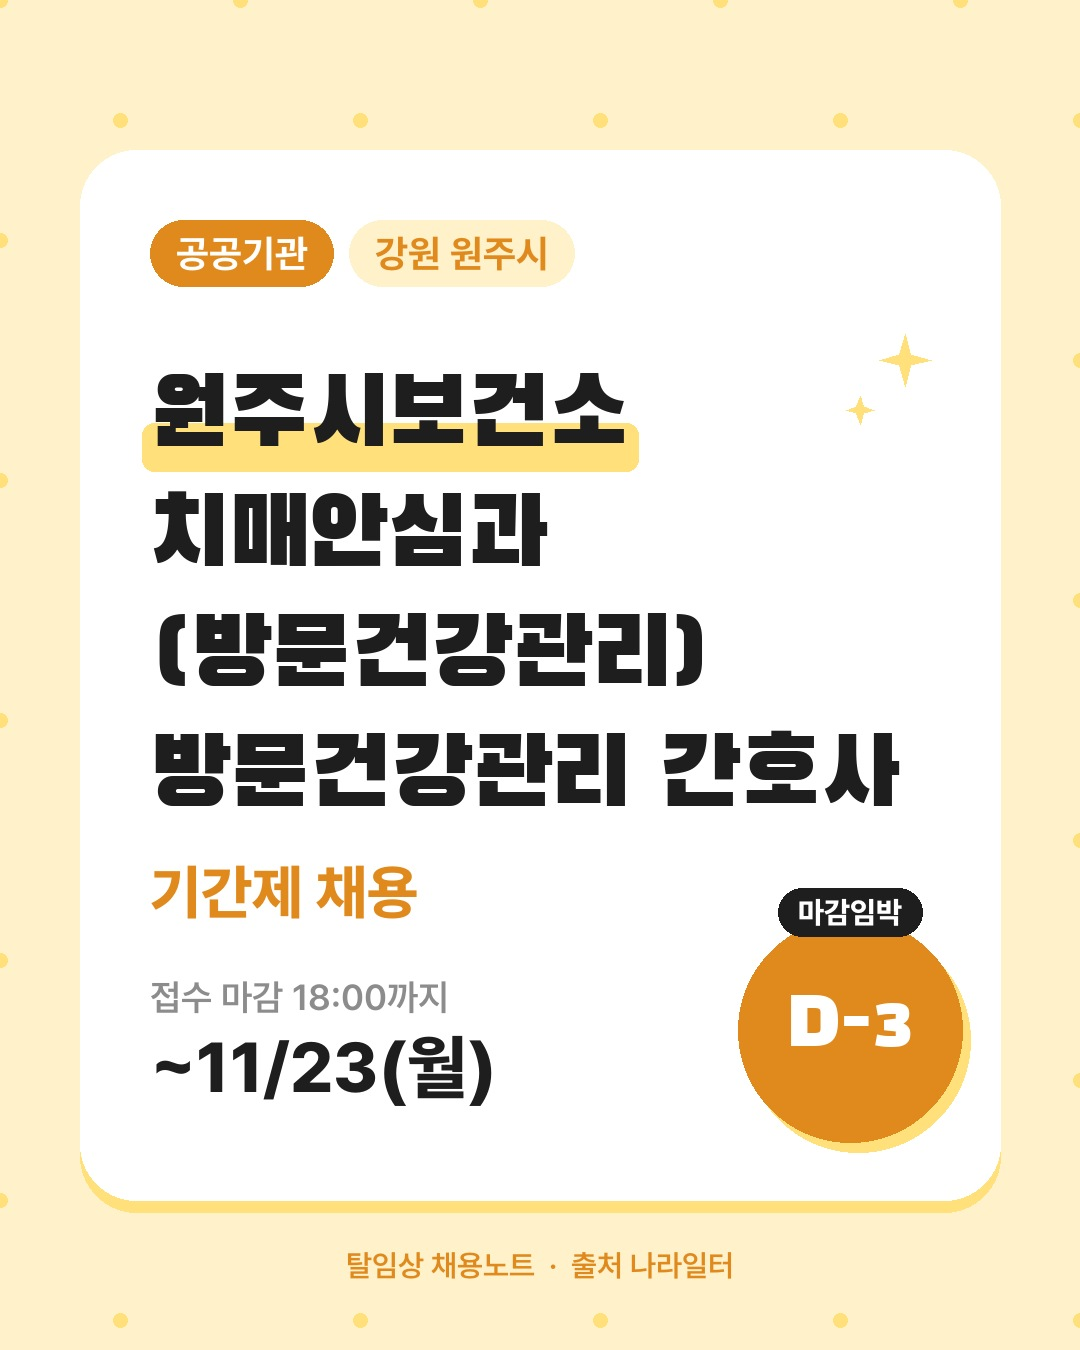
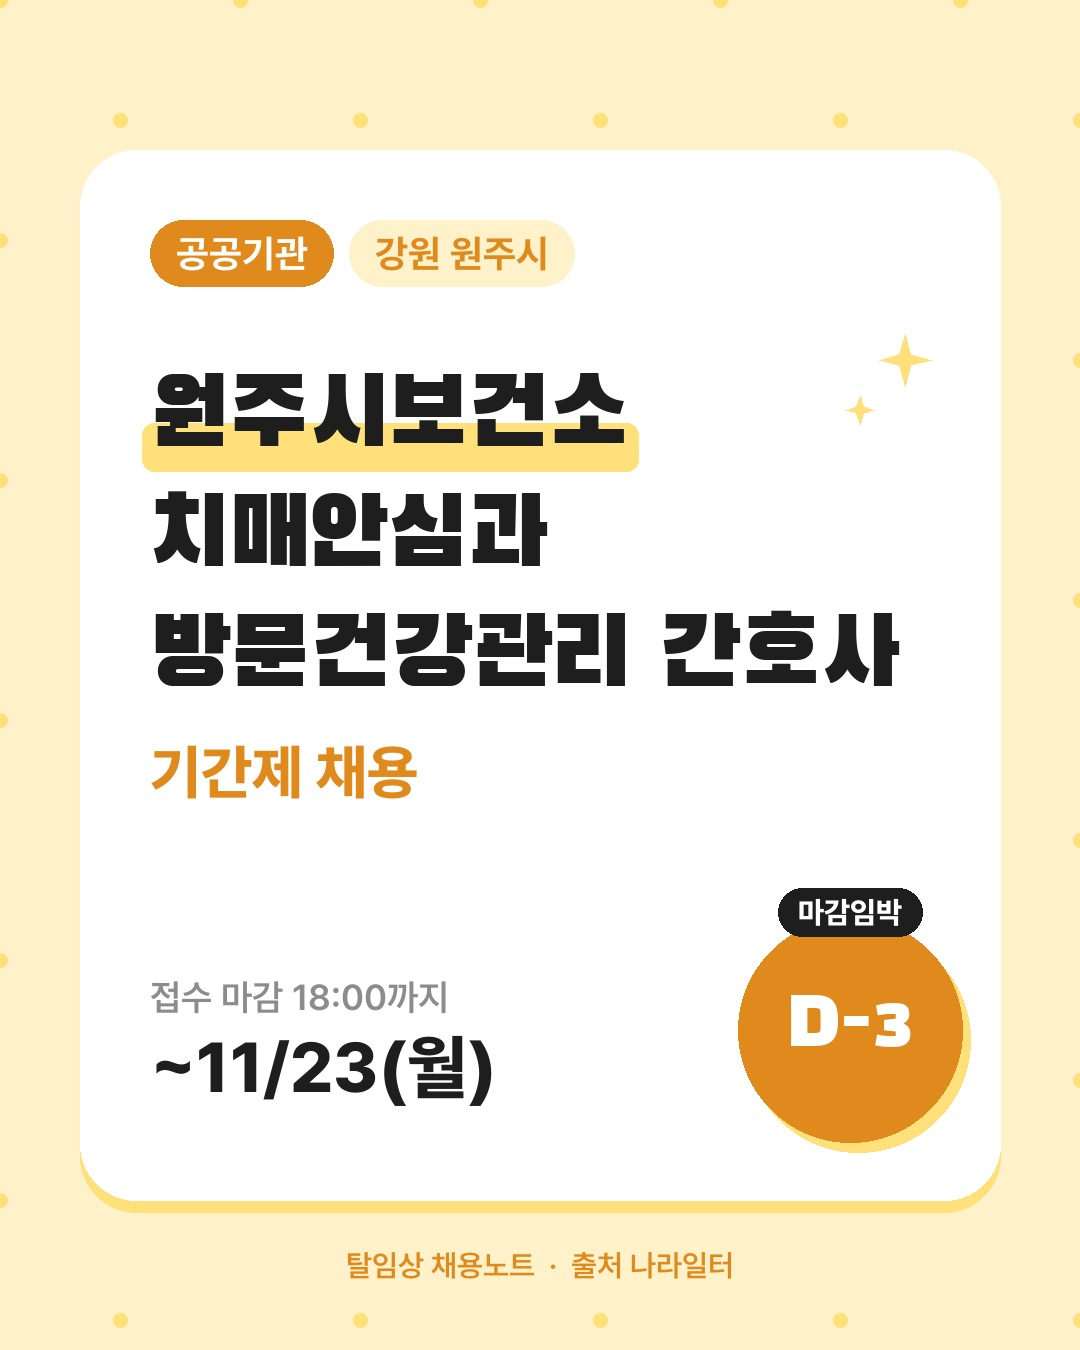
원주시보건소 부서명 정리
Claude-Session: https://claude.ai/code/session_015ozFBvjxcWAyqLYfTbBGCZ

Changed region(s): [[0.1222, 0.4356, 0.8556, 0.6844]]

diff --git a/docs/2026-11-20/index.html b/docs/2026-11-20/index.html
@@ -55,14 +55,14 @@ a{color:var(--accent)}ul.days{padding-left:1.2em}
 <div class="row" style="margin-top:10px;align-items:flex-start"><a href="thumb-01.png" download><img src="thumb-01.png" alt="썸네일 1" style="width:160px;border-radius:8px;border:1px solid var(--line)"></a>
 <span class="muted">썸네일: 이미지를 눌러 저장 후 글 맨 위에 넣으세요</span></div></div><div class="box"><div class="row"><b>글 2. 원주시보건소 · 방문건강관리 간호사</b>
 <span class="muted">카테고리: 탈임상 채용공고 &gt; 공공기관·공무원</span></div>
-<div class="row" style="margin-top:8px"><pre id="pt2" style="flex:1;margin:0">(~11/23) 원주시보건소 치매안심과 (방문건강관리) 방문건강관리 간호사 기간제 채용</pre>
+<div class="row" style="margin-top:8px"><pre id="pt2" style="flex:1;margin:0">(~11/23) 원주시보건소 치매안심과 방문건강관리 간호사 기간제 채용</pre>
 <button onclick="copyText('pt2',this)">제목 복사</button></div>
 <details open><summary class="muted" style="margin:10px 0;cursor:pointer">본문 미리보기 (접기)</summary>
 <div id="pb2" class="post"><p>원주에 살면서 교대 없이 평일 낮에 일할 보건소 자리를 찾는 간호사에게 맞는 공고입니다. 원주시보건소가 2027년 방문건강관리사업 기간제 간호사 2명을 채용합니다. 월 266만원, 주 5일 09:00~18:00.</p><p>&nbsp;</p>
 <h2>📌 채용 개요</h2>
 <table border="1" cellpadding="8" style="border-collapse:collapse;width:100%">
 <tr><td style="width:30%;background:#f5f5f5"><b>기관</b></td><td>원주시보건소</td></tr>
-<tr><td style="width:30%;background:#f5f5f5"><b>부서 · 직무</b></td><td>치매안심과 (방문건강관리) 방문건강관리 간호사</td></tr>
+<tr><td style="width:30%;background:#f5f5f5"><b>부서 · 직무</b></td><td>치매안심과 방문건강관리 간호사</td></tr>
 <tr><td style="width:30%;background:#f5f5f5"><b>채용 인원</b></td><td>2명</td></tr>
 <tr><td style="width:30%;background:#f5f5f5"><b>고용 형태</b></td><td>기간제근로자 (2027.01.01~2027.12.31 (12개월))</td></tr>
 <tr><td style="width:30%;background:#f5f5f5"><b>근무지</b></td><td>원주시보건소 (원일로 139)</td></tr>
@@ -206,7 +206,7 @@ a{color:var(--accent)}ul.days{padding-left:1.2em}
 <tr><td>11/20 (D-DAY)</td><td><a href="https://nmc.recruiter.co.kr/app/jobnotice/view?systemKindCode=MRS2&amp;jobnoticeSn=271567">국립중앙의료원</a><br>응급의료 질향상·재난의료</td><td>서울</td></tr>
 <tr><td>11/20 (D-DAY)</td><td><a href="https://www.redcross.or.kr/redrecruit">대한적십자사</a><br>재난심리 사무직</td><td>충남</td></tr>
 <tr><td>11/23 (D-3)</td><td><a href="https://www.redcross.or.kr/redrecruit">대한적십자사</a><br>인천혈액원 채혈 간호사</td><td>인천</td></tr>
-<tr><td>11/23 (D-3)</td><td><a href="https://www.korea.kr/archive/recruitInfoView.do?dataId=399663">원주시보건소</a><br>치매안심과 (방문건강관리) 방문건강관리 간호사</td><td>강원 원주시</td></tr>
+<tr><td>11/23 (D-3)</td><td><a href="https://www.korea.kr/archive/recruitInfoView.do?dataId=399663">원주시보건소</a><br>치매안심과 방문건강관리 간호사</td><td>강원 원주시</td></tr>
 <tr><td>11/24 (D-4)</td><td><a href="https://job.alio.go.kr/recruitview.do?idx=306789">한국고용정보원</a><br>보건관리자</td><td>충북</td></tr>
 <tr><td>11/25 (D-5)</td><td><a href="https://job.alio.go.kr/recruitview.do?idx=307221">제주대학교병원</a><br>지역장애인보건의료센터 사업인력 간호사</td><td>제주</td></tr>
 <tr><td>11/25 (D-5)</td><td><a href="https://cnuh.recruiter.co.kr/">전남대학교병원</a><br>권역외상센터 외상코디네이터</td><td>광주</td></tr>
@@ -266,7 +266,7 @@ a{color:var(--accent)}ul.days{padding-left:1.2em}
 #탈임상 #탈임상간호사 #간호사채용 #간호사이직 #간호사취업 #인천혈액원채용 #대한적십자사채용 #혈액원간호사 #채혈간호사 #인천</pre>
 <button onclick="copyText('ic1',this)">캡션 복사</button></div></div><div class="box"><div style="display:flex;flex-wrap:wrap"><a href="ig-02-1.jpg" download><img src="ig-02-1.jpg" alt="인스타 2-1" style="width:150px;border-radius:8px;border:1px solid var(--line);margin:0 6px 6px 0"></a><a href="ig-02-2.jpg" download><img src="ig-02-2.jpg" alt="인스타 2-2" style="width:150px;border-radius:8px;border:1px solid var(--line);margin:0 6px 6px 0"></a><a href="ig-02-3.jpg" download><img src="ig-02-3.jpg" alt="인스타 2-3" style="width:150px;border-radius:8px;border:1px solid var(--line);margin:0 6px 6px 0"></a><a href="ig-02-4.jpg" download><img src="ig-02-4.jpg" alt="인스타 2-4" style="width:150px;border-radius:8px;border:1px solid var(--line);margin:0 6px 6px 0"></a><a href="ig-02-5.jpg" download><img src="ig-02-5.jpg" alt="인스타 2-5" style="width:150px;border-radius:8px;border:1px solid var(--line);margin:0 6px 6px 0"></a></div>
 <div><b>인스타 2. 원주시보건소</b> <span class="muted">(5장 · 순서대로 올리세요)</span>
-<pre id="ic2" style="margin:8px 0">📌 원주시보건소 치매안심과 (방문건강관리) 방문건강관리 간호사 기간제 채용
+<pre id="ic2" style="margin:8px 0">📌 원주시보건소 치매안심과 방문건강관리 간호사 기간제 채용
 
 📍 근무지: 강원 원주시
 ⏰ 마감: 11/23 18:00까지 (D-3)
